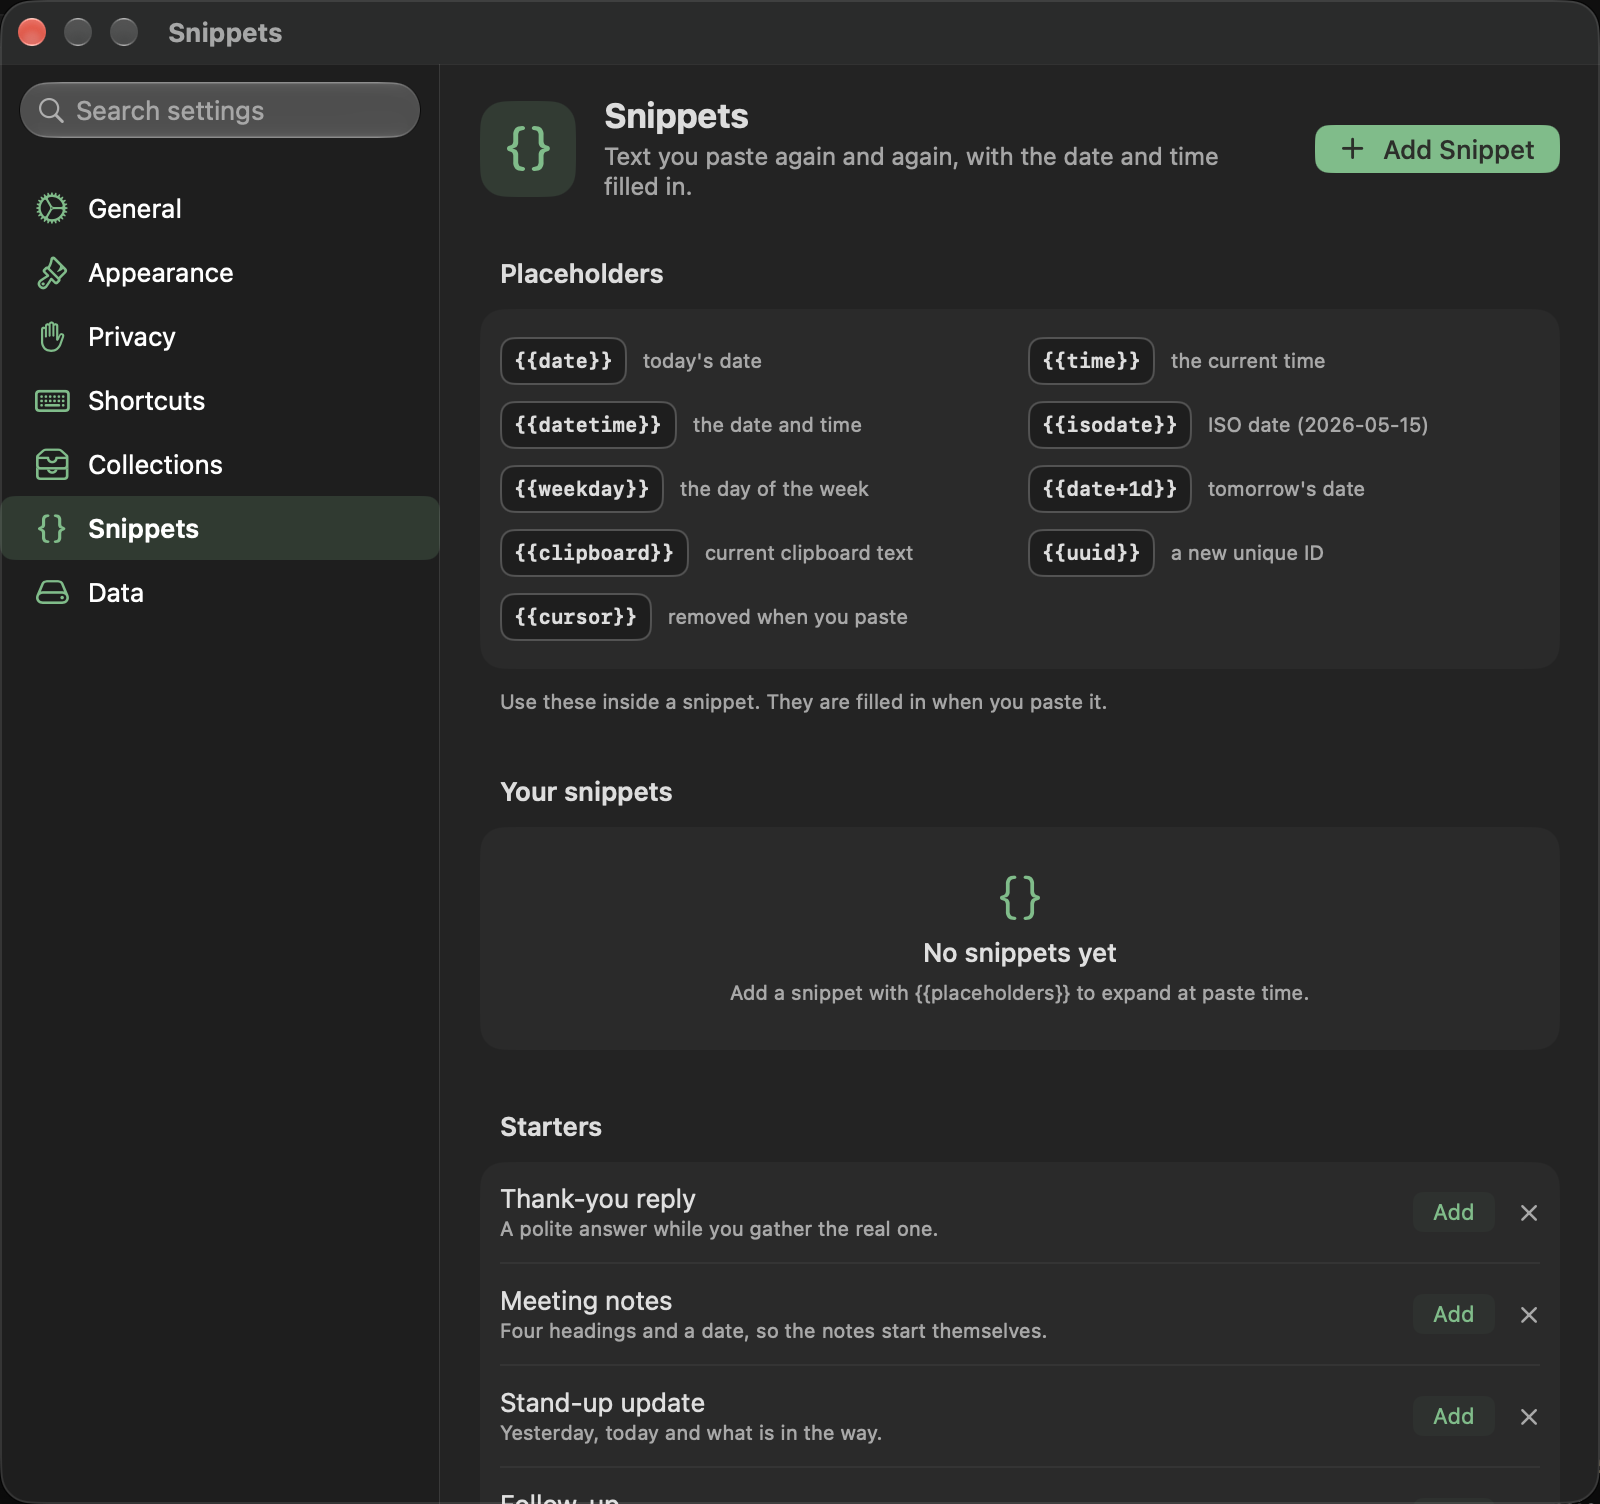
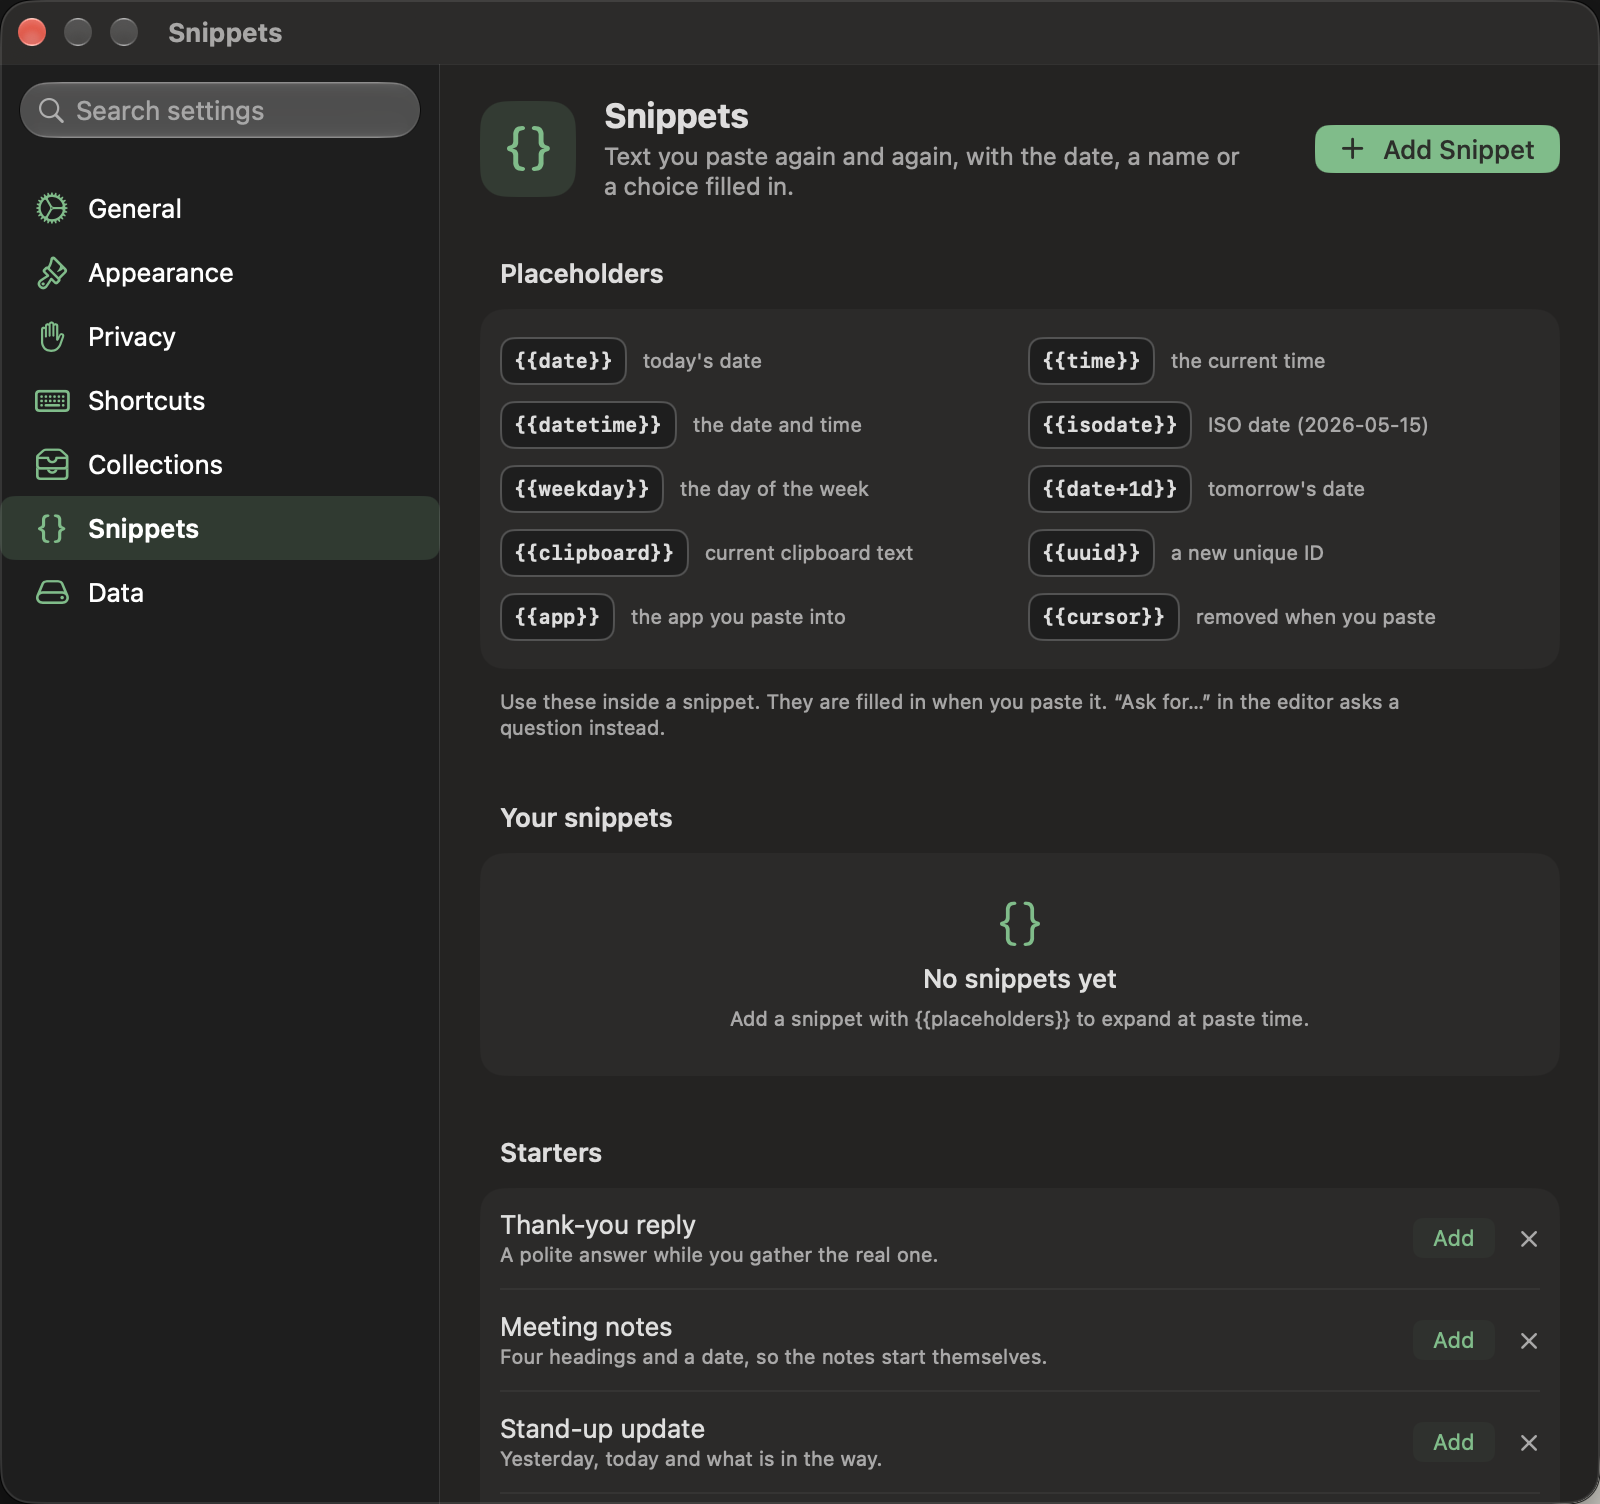
docs(snippets): retake the Snippets pane picture, add the editor and prompt pictures, tidy the pane order (ADR 0017)

diff --git a/Sources/Features/Settings/SnippetsView.swift b/Sources/Features/Settings/SnippetsView.swift
@@ -68,40 +68,11 @@ struct SnippetsView: View {
             } header: {
                 Text("Placeholders")
             } footer: {
-                Text("Use these inside a snippet. They are filled in when you paste it.").pestoCaption()
-            }
-
-            Section {
-                Toggle(isOn: $remembersFillIns) {
-                    VStack(alignment: .leading, spacing: 2) {
-                        Text("Remember fill-in values")
-                        Text(
-                            remembersFillIns
-                                ? "A snippet starts with what you typed last time. It is kept with the snippet, "
-                                + "sealed like its text."
-                                : "A snippet starts empty every time. What was remembered is erased."
-                        )
-                        .pestoCaption()
-                    }
-                }
-                .settingsRow("Remember fill-in values")
-                .onChange(of: remembersFillIns) { _, remembers in
-                    guard !remembers else { return }
-                    Task {
-                        await appState.attempt("Couldn\u{2019}t erase the remembered values") {
-                            try await appState.storageService?.forgetAllFillIns()
-                        }
-                    }
-                }
-            }
-
-            Section {
-                suggestionStatistics
-            } header: {
-                Text("Suggestion statistics")
-            } footer: {
-                Text("Kept on this Mac, from the suggestions the shelf has shown. Nothing is sent anywhere.")
-                    .pestoCaption()
+                Text(
+                    "Use these inside a snippet. They are filled in when you paste it. "
+                        + "\u{201C}Ask for\u{2026}\u{201D} in the editor asks a question instead."
+                )
+                .pestoCaption()
             }
 
             Section {
@@ -151,6 +122,39 @@ struct SnippetsView: View {
                     Text("Text you have pasted from the shelf more than twice. Make a snippet to keep it handy.")
                         .pestoCaption()
                 }
+            }
+
+            Section {
+                Toggle(isOn: $remembersFillIns) {
+                    VStack(alignment: .leading, spacing: 2) {
+                        Text("Remember fill-in values")
+                        Text(
+                            remembersFillIns
+                                ? "A snippet starts with what you typed last time. It is kept with the snippet, "
+                                + "sealed like its text."
+                                : "A snippet starts empty every time. What was remembered is erased."
+                        )
+                        .pestoCaption()
+                    }
+                }
+                .settingsRow("Remember fill-in values")
+                .onChange(of: remembersFillIns) { _, remembers in
+                    guard !remembers else { return }
+                    Task {
+                        await appState.attempt("Couldn\u{2019}t erase the remembered values") {
+                            try await appState.storageService?.forgetAllFillIns()
+                        }
+                    }
+                }
+            }
+
+            Section {
+                suggestionStatistics
+            } header: {
+                Text("Suggestion statistics")
+            } footer: {
+                Text("Kept on this Mac, from the suggestions the shelf has shown. Nothing is sent anywhere.")
+                    .pestoCaption()
             }
         }
         .formStyle(.grouped)

diff --git a/Tests/PestoUITests/SnippetSuggestionsTests.swift b/Tests/PestoUITests/SnippetSuggestionsTests.swift
@@ -27,6 +27,21 @@ final class SnippetSuggestionsTests: PestoUITestCase {
         )
     }
 
+    func test_questions_showAsFieldChips_andANewSnippetCanClaimAShortcut() {
+        openSnippets()
+        settingsWindow.buttons["Add Snippet"].click()
+        let editor = element(AccessibilityID.snippetTextEditor)
+        XCTAssertTrue(editor.waitForExistence(timeout: 5))
+        editor.click()
+        editor.typeText(#"Hi {{input:Name}}, thanks for {{input:Topic default="your note"}}!"#)
+
+        XCTAssertTrue(settingsWindow.buttons["Name"].waitForExistence(timeout: 5), "no chip for the Name field")
+        XCTAssertTrue(settingsWindow.buttons["Topic"].exists, "no chip for the Topic field")
+        let shortcut = settingsWindow.checkBoxes.matching(NSPredicate(format: "label BEGINSWITH 'Also paste it with'"))
+        XCTAssertTrue(shortcut.firstMatch.waitForExistence(timeout: 5), "no shortcut checkbox")
+        capture("settings-snippet-fields", of: settingsWindow)
+    }
+
     func test_text_withNoPlaceholder_cannotBeSaved_untilOneIsInserted() {
         openSnippets()
         settingsWindow.buttons["Add Snippet"].click()

diff --git a/Sources/Features/Settings/CollectionsSettings.swift b/Sources/Features/Settings/CollectionsSettings.swift
@@ -45,7 +45,7 @@ struct CollectionsSettings: View {
     }
 }
 
-/// Settings → Snippets: text you paste again and again, with the date and time filled in.
+/// Settings → Snippets: text you paste again and again, with the date, a name or a choice filled in.
 struct SnippetsSettings: View {
     @Environment(AppState.self) private var appState: AppState
     @State private var addRequest = 0
@@ -58,7 +58,7 @@ struct SnippetsSettings: View {
         VStack(spacing: 0) {
             SettingsPaneHeader(
                 symbol: "curlybraces", title: "Snippets",
-                subtitle: Text("Text you paste again and again, with the date and time filled in.")
+                subtitle: Text("Text you paste again and again, with the date, a name or a choice filled in.")
             ) {
                 Button("Add Snippet", systemImage: "plus") { addRequest += 1 }
                     .buttonStyle(.pestoProminent)

diff --git a/docs/guide/using-pesto.md b/docs/guide/using-pesto.md
@@ -94,6 +94,8 @@ picture clip and pastes back as the original file type. PDFs and SVGs get a prev
 A snippet is a pinned clip whose text holds a `{{token}}`. Pesto fills the tokens in when you paste it, in any app.
 Make one in *Settings → Snippets*, or from a suggestion.
 
+![The snippet editor with a text that asks two questions: field chips under the text, and a checkbox to claim a shortcut.](../images/settings-snippet-fields.png)
+
 **Fills from the Mac** (no question asked): `{{date}}`, `{{time}}`, `{{datetime}}`, `{{isodate}}`, `{{weekday}}`,
 `{{date+3d}}` and `{{date-1d}}`, `{{clipboard}}`, `{{uuid}}`, `{{app}}` (the app you paste into) and `{{cursor}}` (where the
 caret lands afterwards).
@@ -107,6 +109,8 @@ caret lands afterwards).
 | `{{input:Customer name default="Acme"}}` | One line, starting with a value. Put a value in quotes, so it can hold `|` or a single `}`. |
 | `{{choice:Greeting options="Hi|Hello|Dear"}}` | A pick from the options, the first to start. |
 | `{{optional:P.S.}}Thanks again!{{/optional}}` | A switch that keeps or drops the text between the tags (off to start). |
+
+![The prompt a snippet shows when it asks for a name, a choice, a note and an optional paragraph.](../images/fill-in-prompt.png)
 
 A label used twice asks once. Return pastes, **⌘Return** pastes from a box of several lines, Esc cancels, and Tab moves between rows.
 The *Ask for…* menu in the snippet editor writes these tokens for you, the fields show as chips under the text (click one to rename it), and a new snippet can claim the next free `⌃1`–`⌃9` shortcut with one checkbox. A snippet pasted one by one with a stack asks everything
